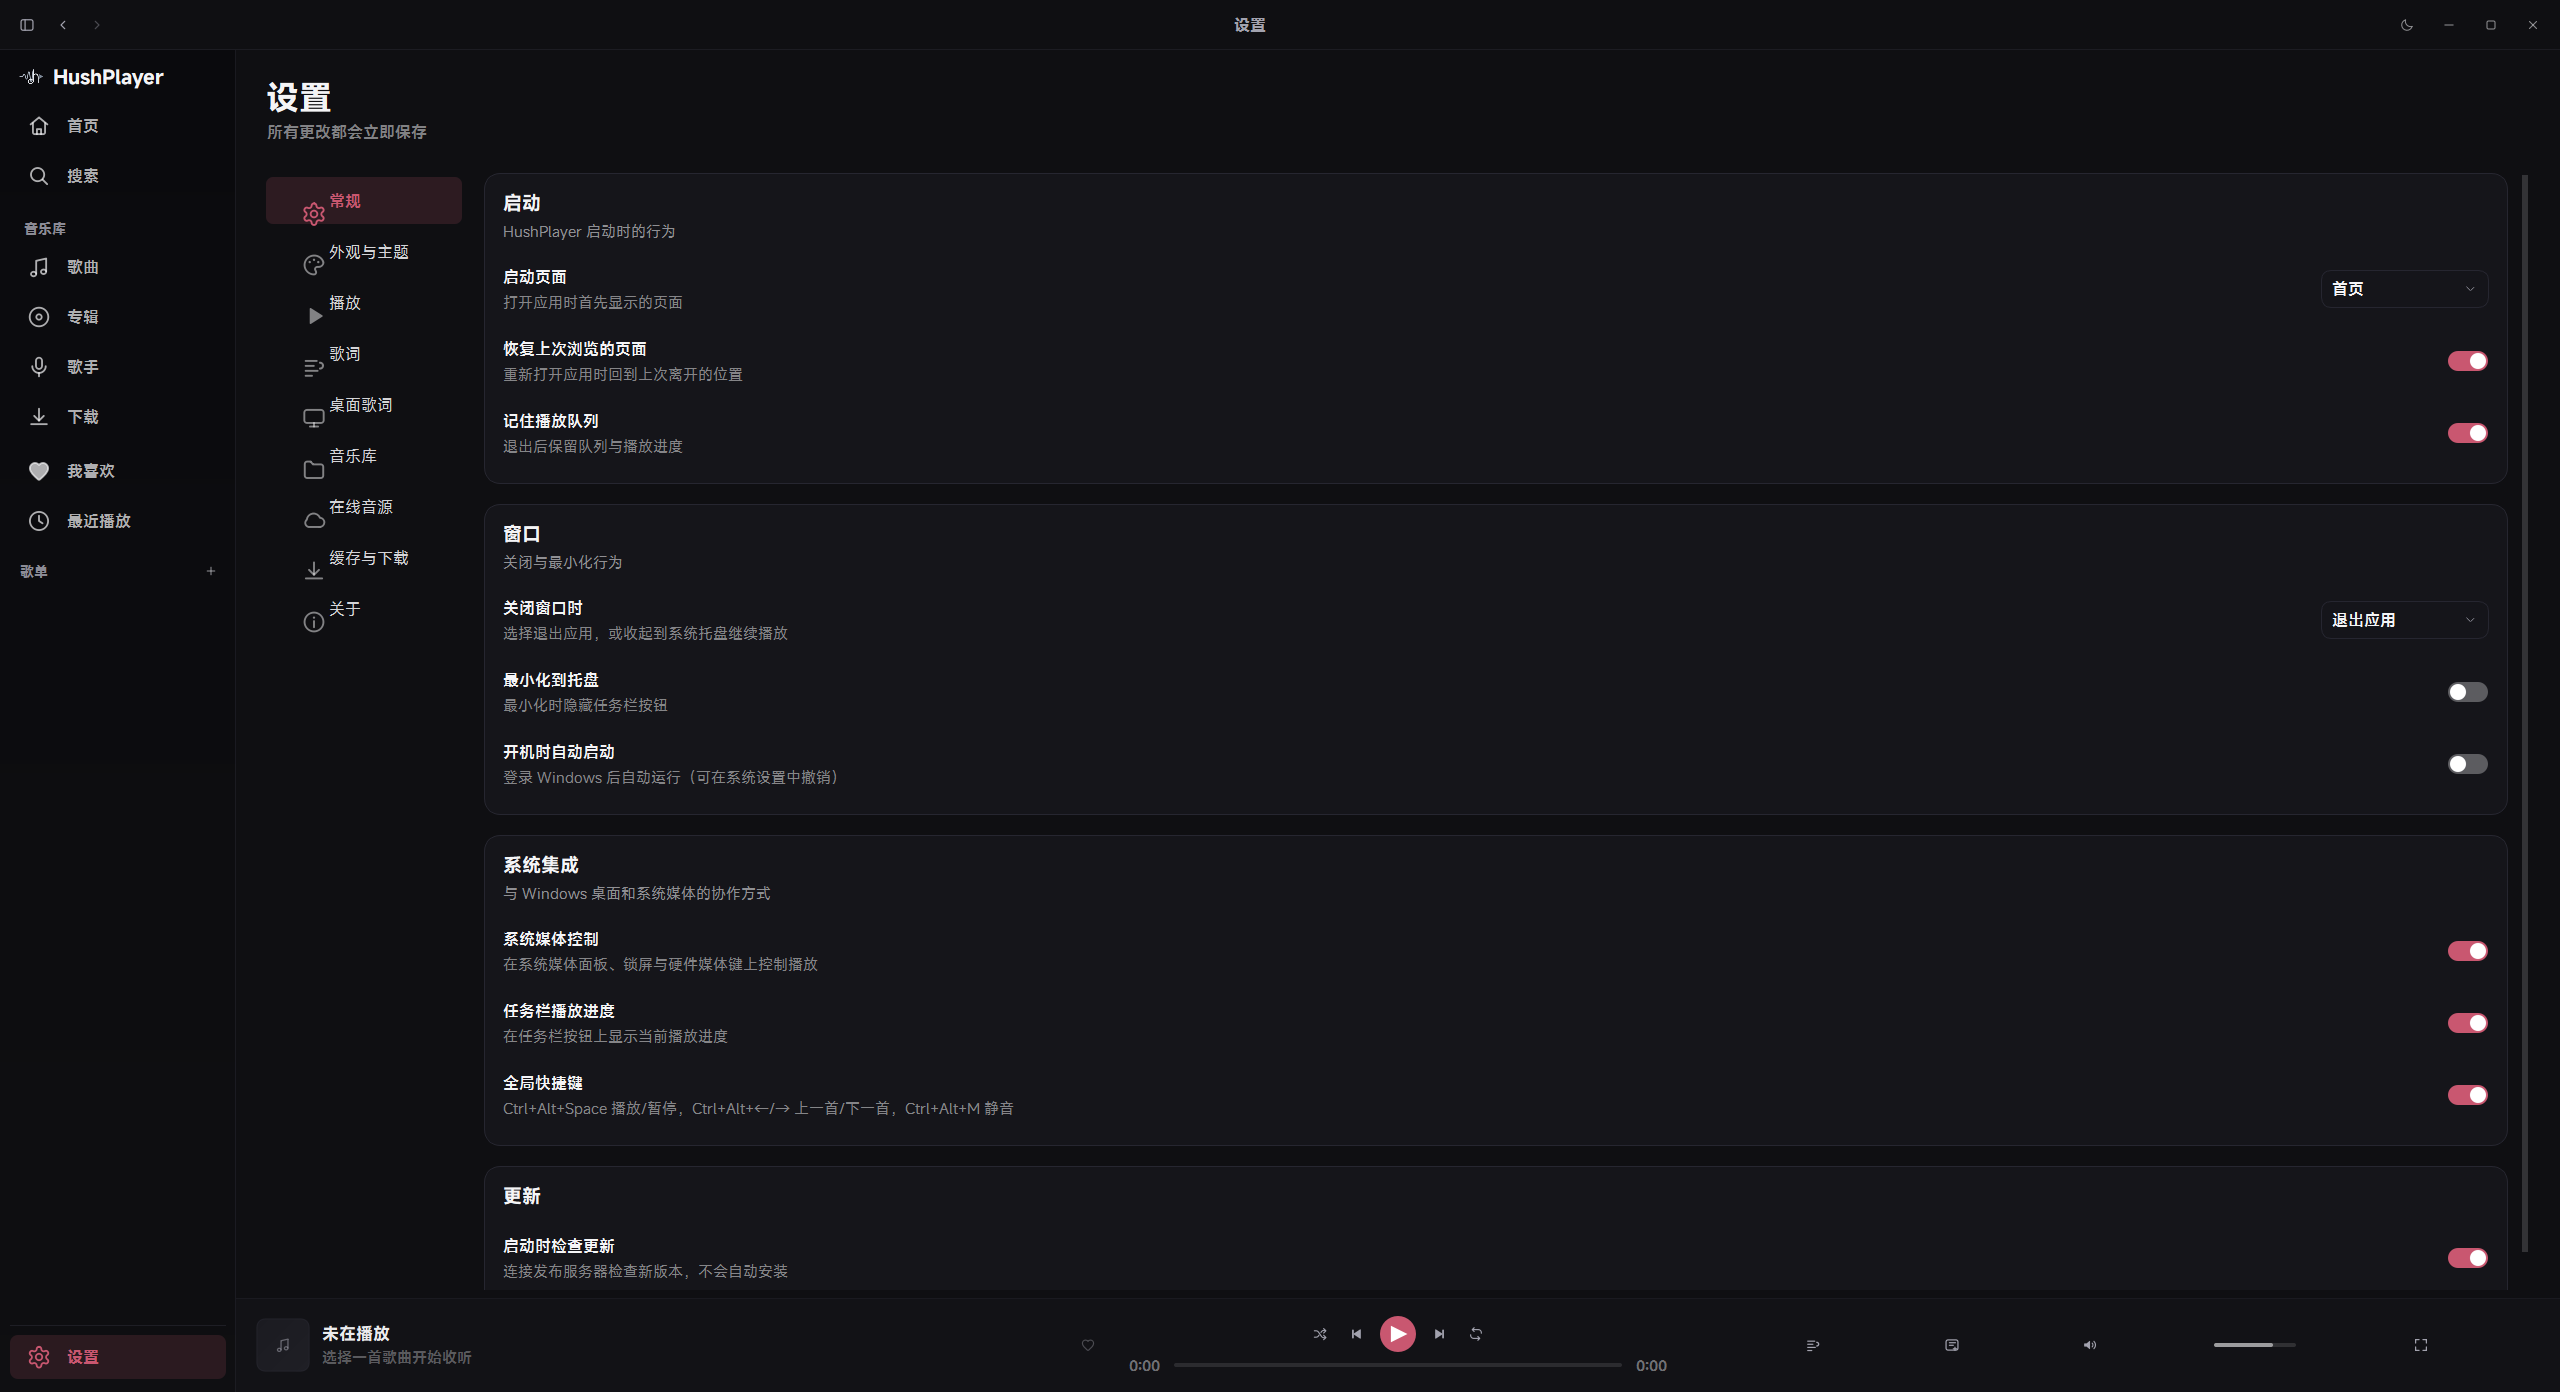
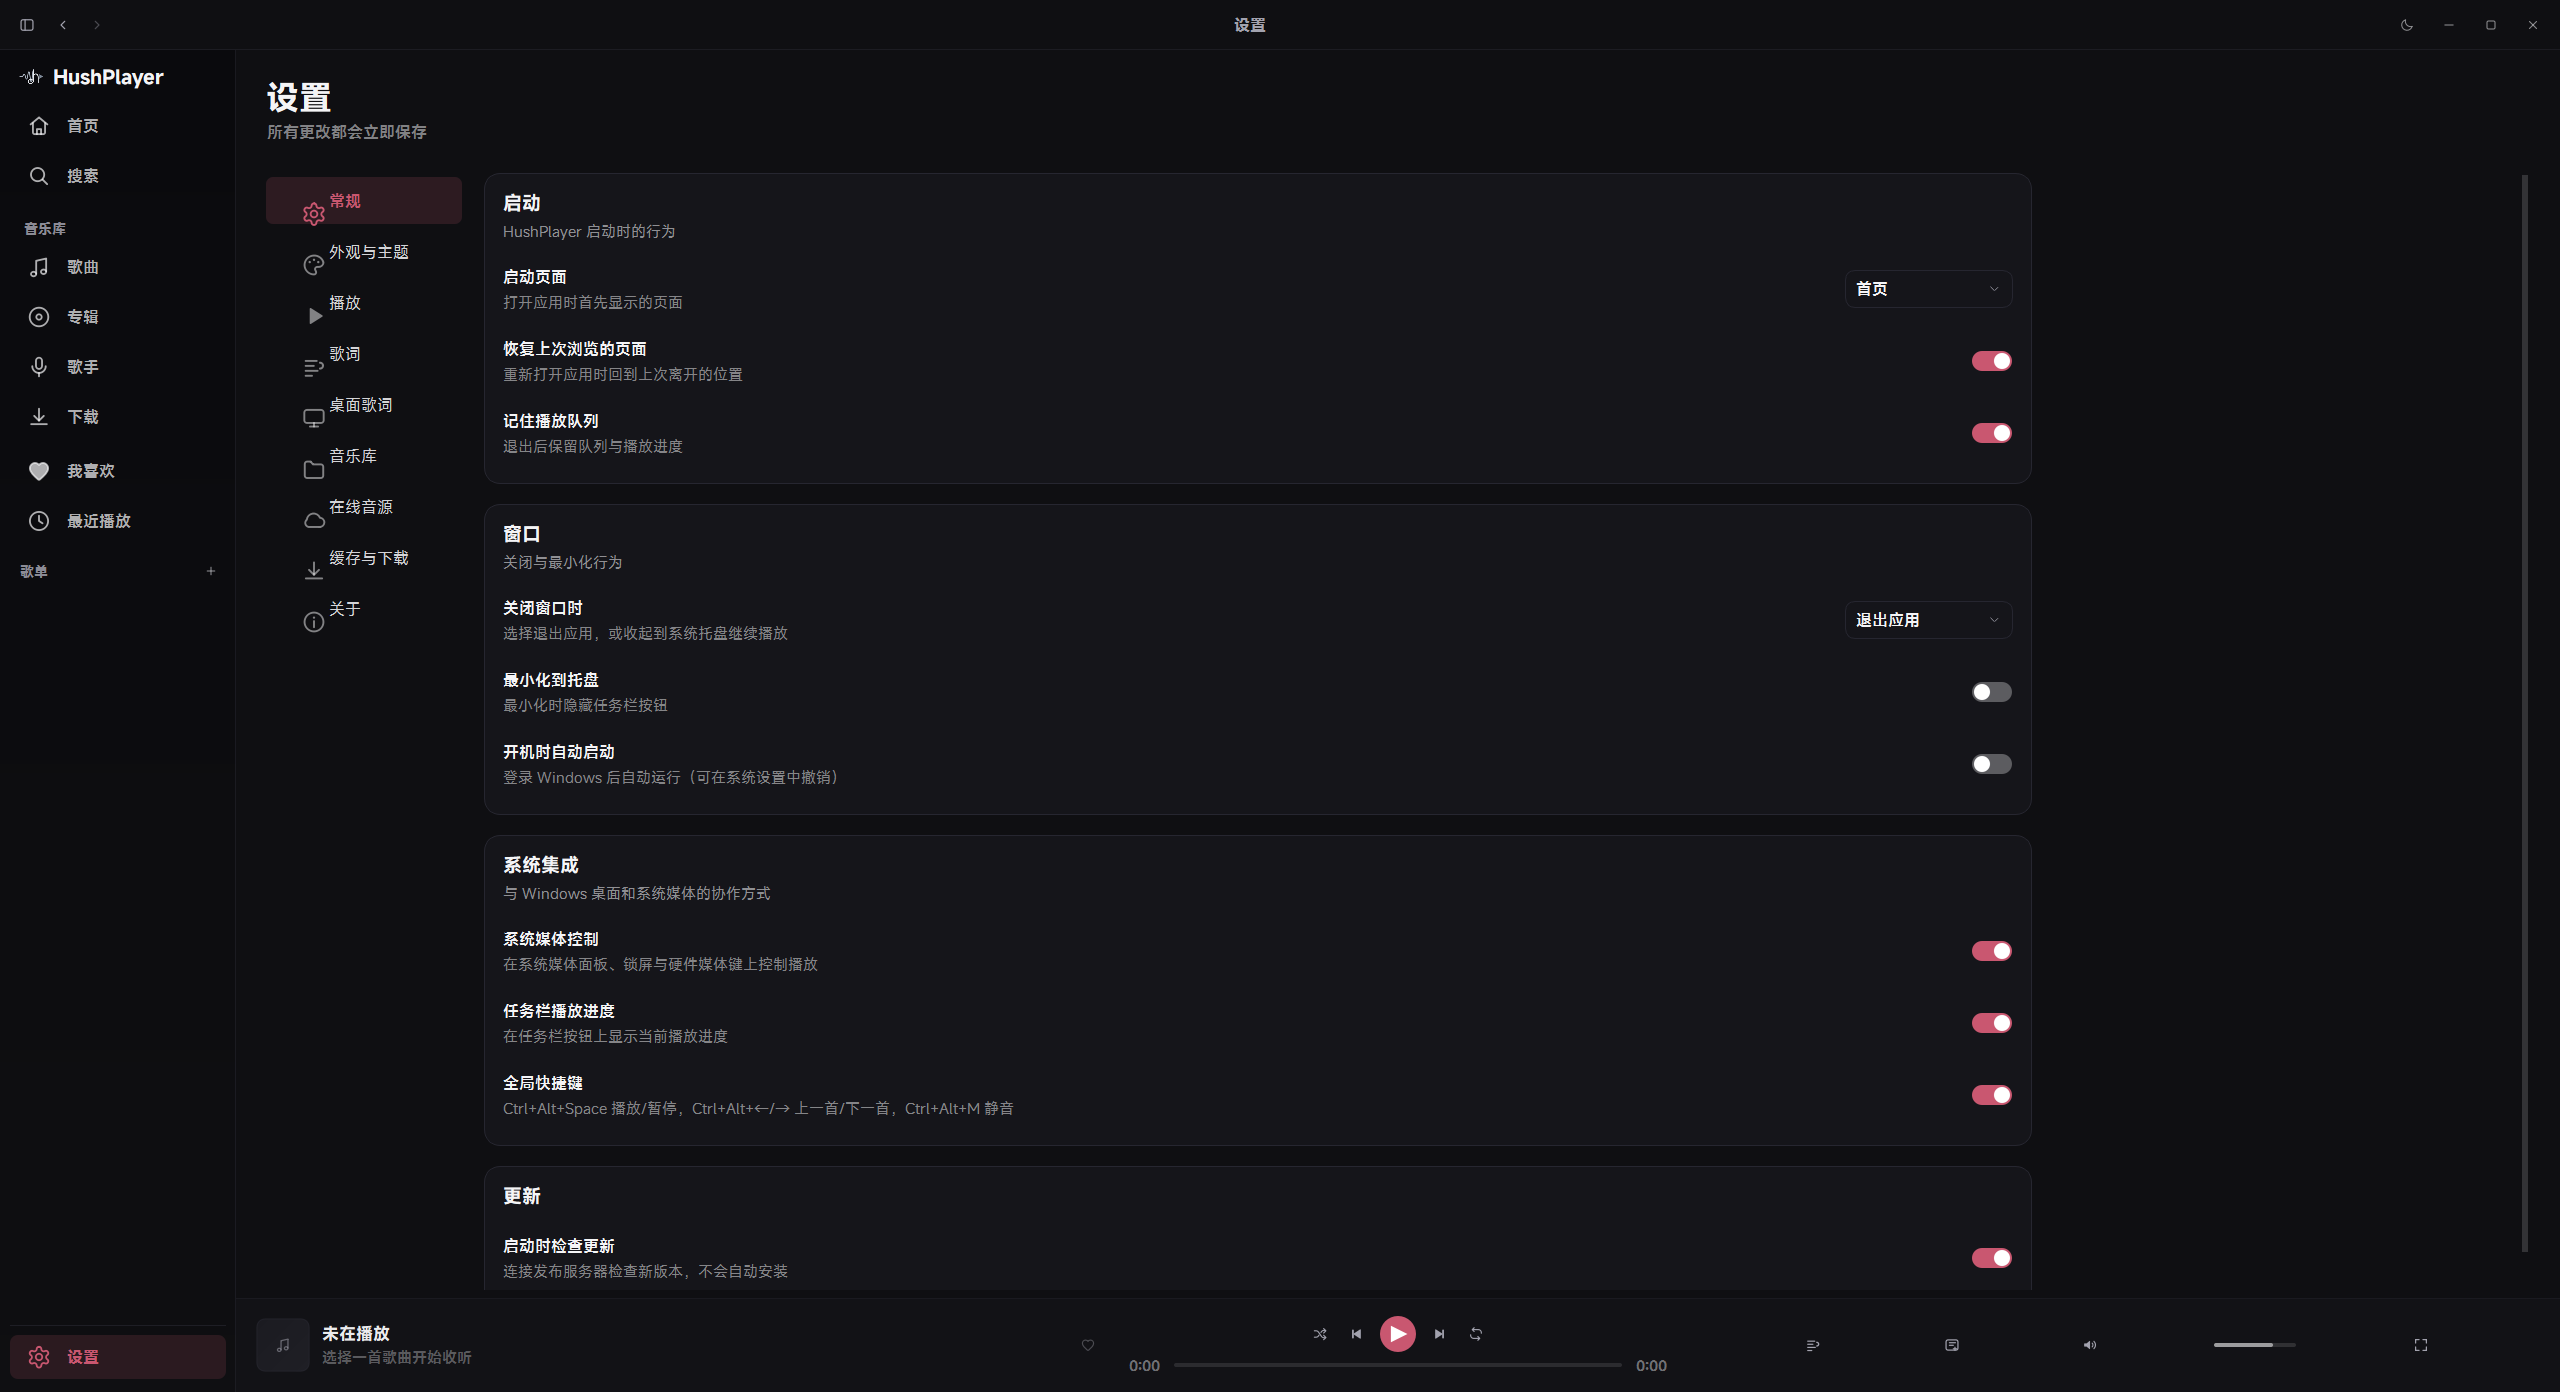
feat(1.0.27): 宽窗口内容列限宽（歌曲页居中、设置页左对齐）

diff --git a/hushplayer/ui/pages/trackpage.py b/hushplayer/ui/pages/trackpage.py
@@ -5,12 +5,12 @@ from __future__ import annotations
 from PySide6.QtCore import QTimer, Qt
 from PySide6.QtWidgets import QHBoxLayout, QVBoxLayout, QWidget
 
-from ...core.theme import Metrics
+from ...core.theme import Metrics, theme
 from ...model.track import Track, format_duration
 from ..context import ctx
 from ..menus import track_menu
 from ..widgets.tracklist import TrackListWidget
-from .page import Page, PageHeader
+from .page import CenteredBox, Page, PageHeader
 
 
 class TrackListPage(Page):
@@ -35,15 +35,25 @@ class TrackListPage(Page):
         layout = self.content_layout
         layout.setContentsMargins(Metrics.page_pad, 14, Metrics.page_pad, 8)
         layout.setSpacing(8)
+        # Header and table share one constrained column so the title lines up
+        # with the table's left edge instead of floating at the page margin.
+        column = QWidget()
+        column.setStyleSheet("background:transparent;")
+        column_layout = QVBoxLayout(column)
+        column_layout.setContentsMargins(0, 0, 0, 0)
+        column_layout.setSpacing(8)
         self.header = PageHeader(self.title, self.subtitle)
-        layout.addWidget(self.header)
+        column_layout.addWidget(self.header)
 
         spacer = QWidget()
         spacer.setFixedHeight(6)
-        layout.addWidget(spacer)
+        column_layout.addWidget(spacer)
 
         self.list = TrackListWidget()
-        layout.addWidget(self.list, 1)
+        column_layout.addWidget(self.list, 1)
+        layout.addWidget(
+            CenteredBox(column, max_width=theme().scaled(1180, factor=1.0)), 1
+        )
 
         self.list.play_requested.connect(self._on_play)
         self.list.menu_requested.connect(self._on_menu)

diff --git a/hushplayer/ui/pages/page.py b/hushplayer/ui/pages/page.py
@@ -284,6 +284,40 @@ class EmptyState(QWidget):
         painter.end()
 
 
+class CenteredBox(QWidget):
+    """Keeps a child at a comfortable measure and centres it.
+
+    On a maximised 1440p window a full-width settings card or song table looks
+    sparse and makes the type read as tiny; Apple Music constrains the content
+    column instead. The child still shrinks freely on narrow windows.
+    """
+
+    def __init__(
+        self,
+        child: QWidget,
+        *,
+        max_width: int,
+        align: str = "center",
+        parent: QWidget | None = None,
+    ) -> None:
+        super().__init__(parent)
+        self._child = child
+        self._max_width = max(360, int(max_width))
+        self._align = align
+        layout = QVBoxLayout(self)
+        layout.setContentsMargins(0, 0, 0, 0)
+        layout.setSpacing(0)
+        alignment = Qt.AlignLeft if align == "left" else Qt.AlignHCenter
+        layout.addWidget(child, 1, alignment)
+        self._layout = layout
+
+    def resizeEvent(self, event) -> None:  # noqa: N802
+        super().resizeEvent(event)
+        width = max(320, min(self._max_width, self.width()))
+        if self._child.width() != width:
+            self._child.setFixedWidth(width)
+
+
 class Card(QFrame):
     """Rounded surface used by settings groups and detail panels."""
 

diff --git a/hushplayer/ui/pages/settings.py b/hushplayer/ui/pages/settings.py
@@ -41,7 +41,7 @@ from ..widgets.settings_widgets import (
     ThemePicker,
     ToggleSwitch,
 )
-from .page import Page, PageHeader
+from .page import CenteredBox, Page, PageHeader
 
 log = get_logger(__name__)
 
@@ -216,12 +216,20 @@ class SettingsPage(Page):
         scroll.setStyleSheet("QScrollArea{background:transparent;border:none;}")
         host = QWidget()
         host.setStyleSheet("background:transparent;")
-        column = QVBoxLayout(host)
+        host_layout = QVBoxLayout(host)
+        host_layout.setContentsMargins(0, 0, 0, 0)
+        host_layout.setSpacing(0)
+        column_host = QWidget()
+        column_host.setStyleSheet("background:transparent;")
+        column = QVBoxLayout(column_host)
         column.setContentsMargins(0, 0, 12, 18)
         column.setSpacing(theme().scaled(14, factor=0.8))
         builder = self._builders[key]
         builder(column)
         column.addStretch(1)
+        host_layout.addWidget(
+            CenteredBox(column_host, max_width=theme().scaled(1040, factor=1.0), align="left"), 1
+        )
         scroll.setWidget(host)
         self._sections[key] = scroll
         self._stack.addWidget(scroll)

diff --git a/tools/probe_r28_songs.py b/tools/probe_r28_songs.py
@@ -1,0 +1,30 @@
+import os, sys
+sys.path.insert(0, ".")
+os.environ["HUSHPLAYER_DATA_DIR"] = os.path.abspath("artifacts/qa/r28/data2")
+os.environ["HUSHPLAYER_TYPE_SCALE"] = "1.5"
+os.environ["HUSH_CONSOLE"] = "0"
+from pathlib import Path
+from PySide6.QtCore import QTimer
+from PySide6.QtWidgets import QApplication
+from hushplayer.app import HushApp
+from hushplayer.ui.context import ctx
+
+app = QApplication(sys.argv)
+hush = HushApp(app); hush.start()
+ctx().library.import_files([str(p) for p in Path("tests/fixtures/audio").rglob("*") if p.is_file()])
+win = ctx().window
+win.resize(2560, 1392)
+
+def shot():
+    win.navigate("songs")
+    app.processEvents()
+    QTimer.singleShot(300, grab)
+
+def grab():
+    win.grab().save("artifacts/qa/r28/songs_150.png")
+    print("RESULT PASS", flush=True)
+    app.quit()
+
+QTimer.singleShot(900, shot)
+app.exec()
+hush.shutdown()

diff --git a/hushplayer/version.py b/hushplayer/version.py
@@ -4,7 +4,7 @@ from __future__ import annotations
 
 APP_NAME = "HushPlayer"
 APP_ID = "com.hushplayer.desktop"
-VERSION = "1.0.26"
+VERSION = "1.0.27"
 BUILD_CHANNEL = "stable"
 VERSION_TUPLE = tuple(int(part) for part in VERSION.split("."))
 

diff --git a/docs/CHANGELOG.md b/docs/CHANGELOG.md
@@ -1,5 +1,18 @@
 # Changelog
 
+## v1.0.27 — 2026-10-09
+
+宽窗口内容列限宽（居中/左对齐），避免 2K/4K 下列表与卡片被拉得过宽。
+
+### 调整
+- 新增 `CenteredBox(child, max_width, align)`：内容列超过上限后不再铺满，按 `align` 居中（歌曲/专辑类页面）或左对齐（设置页，紧接分区导航）。
+- 歌曲页把「页面标题 + 表格」并入同一列（`theme().scaled(1180)`），标题与表头左边缘对齐，「添加音乐」贴列右缘。
+- 设置页内容列上限 `theme().scaled(1040)`，左对齐分区导航右侧，卡片不再横跨整个窗口。
+
+### 验证
+- `pytest`：181 passed / 0 failed。
+- 2560×1392 截图：`docs/screenshots/settings_150.png`、`docs/screenshots/songs_150.png`。
+
 ## v1.0.26 — 2026-10-09
 
 设置导航图标与文字比例、设置行密度。
